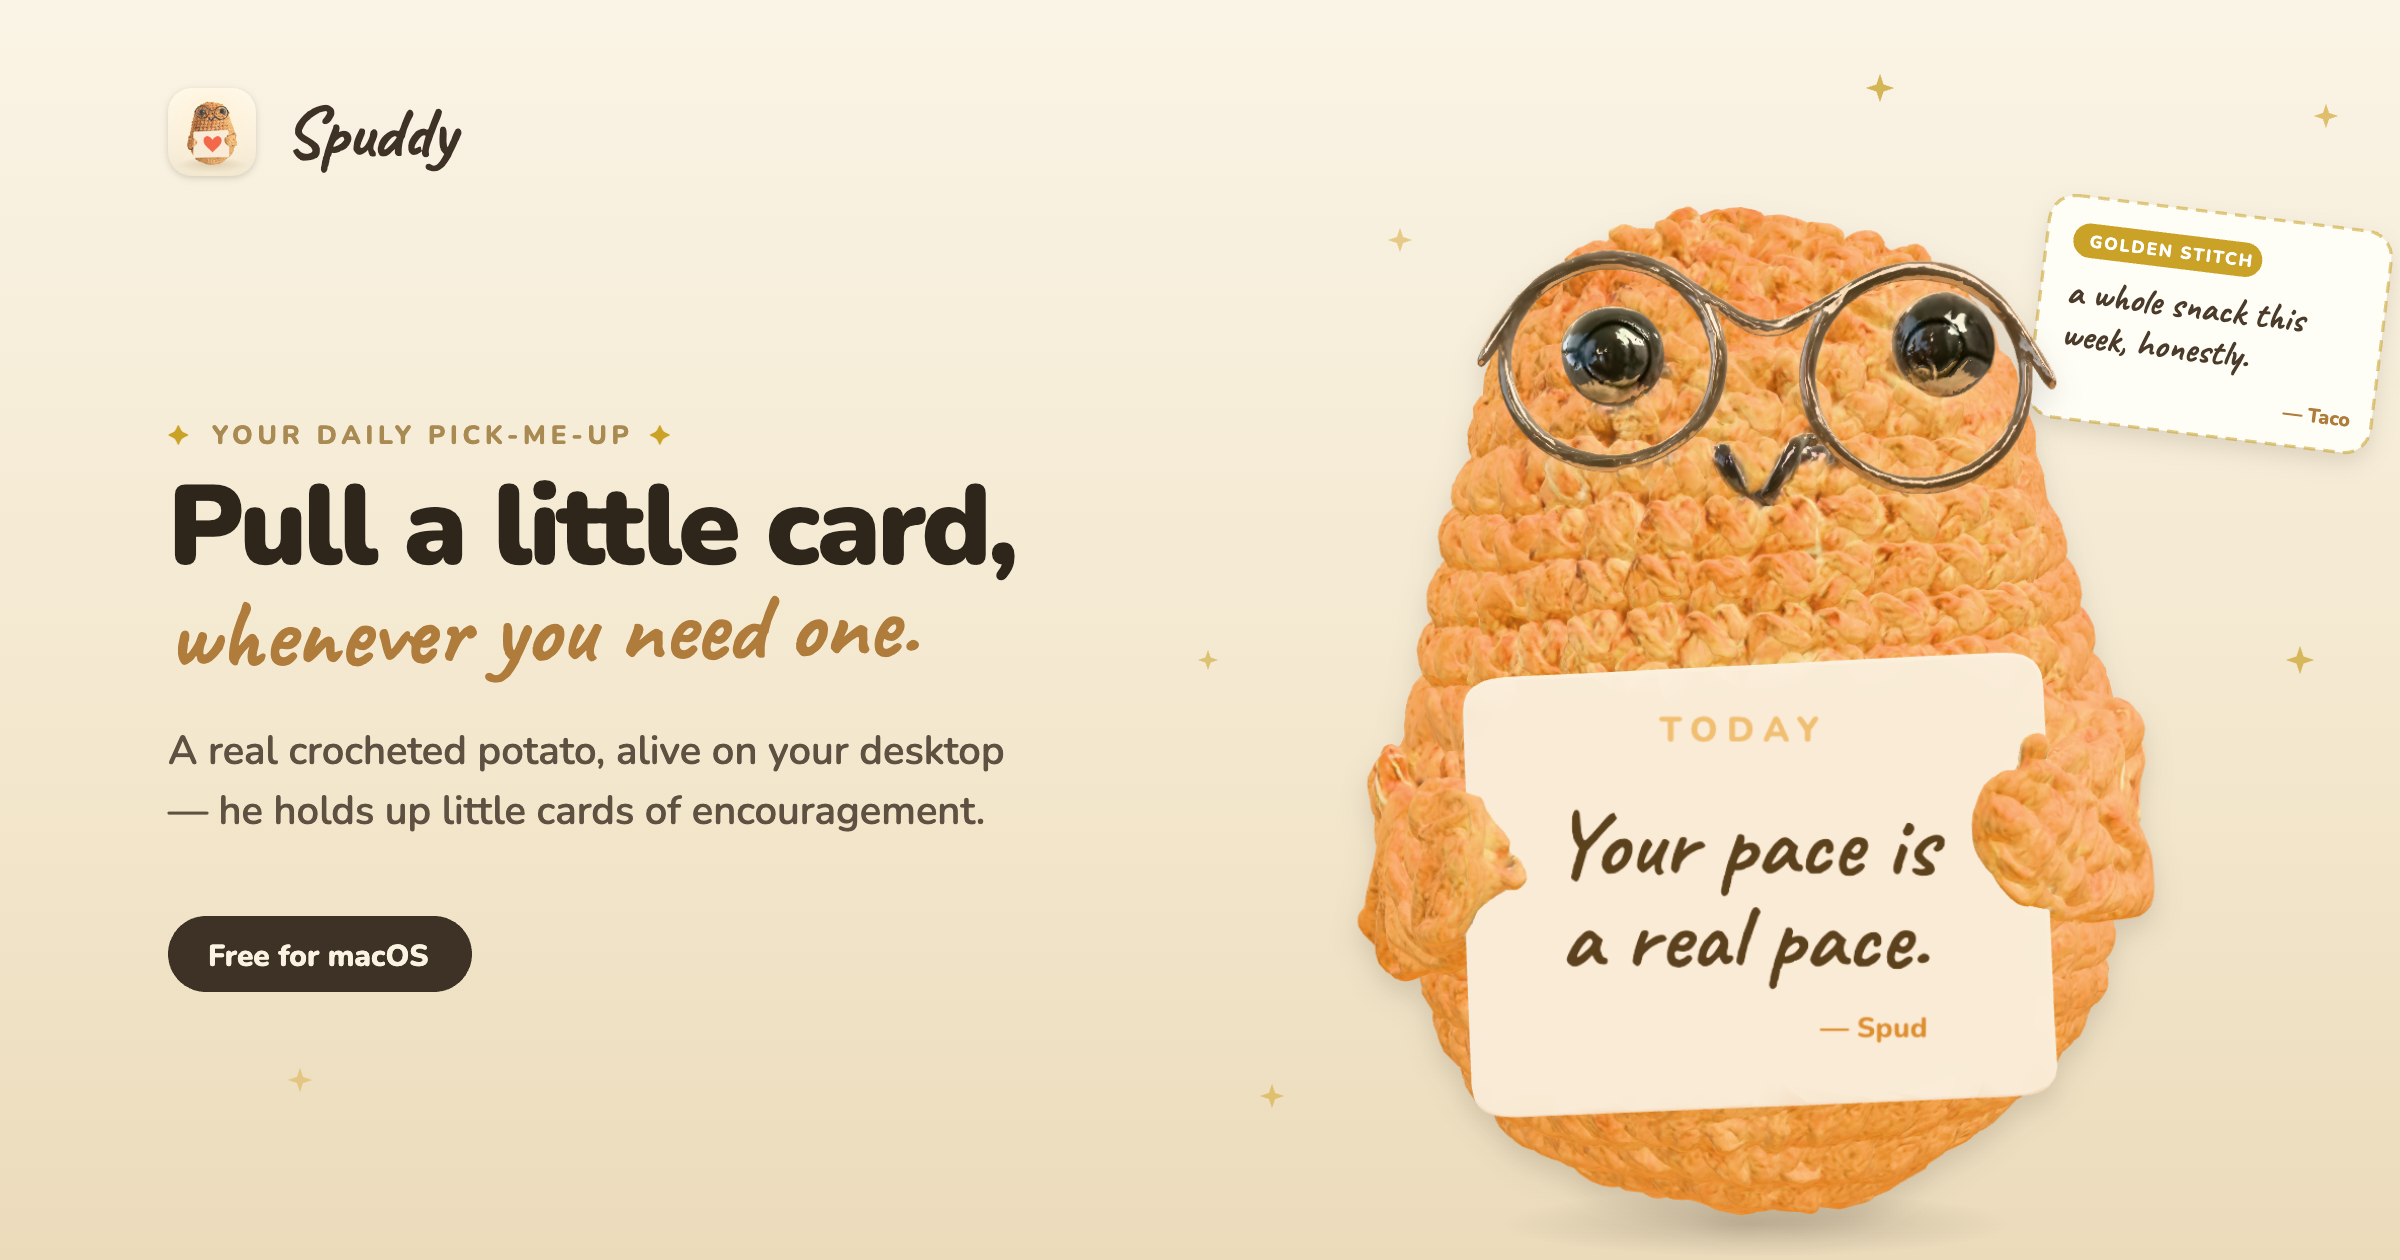
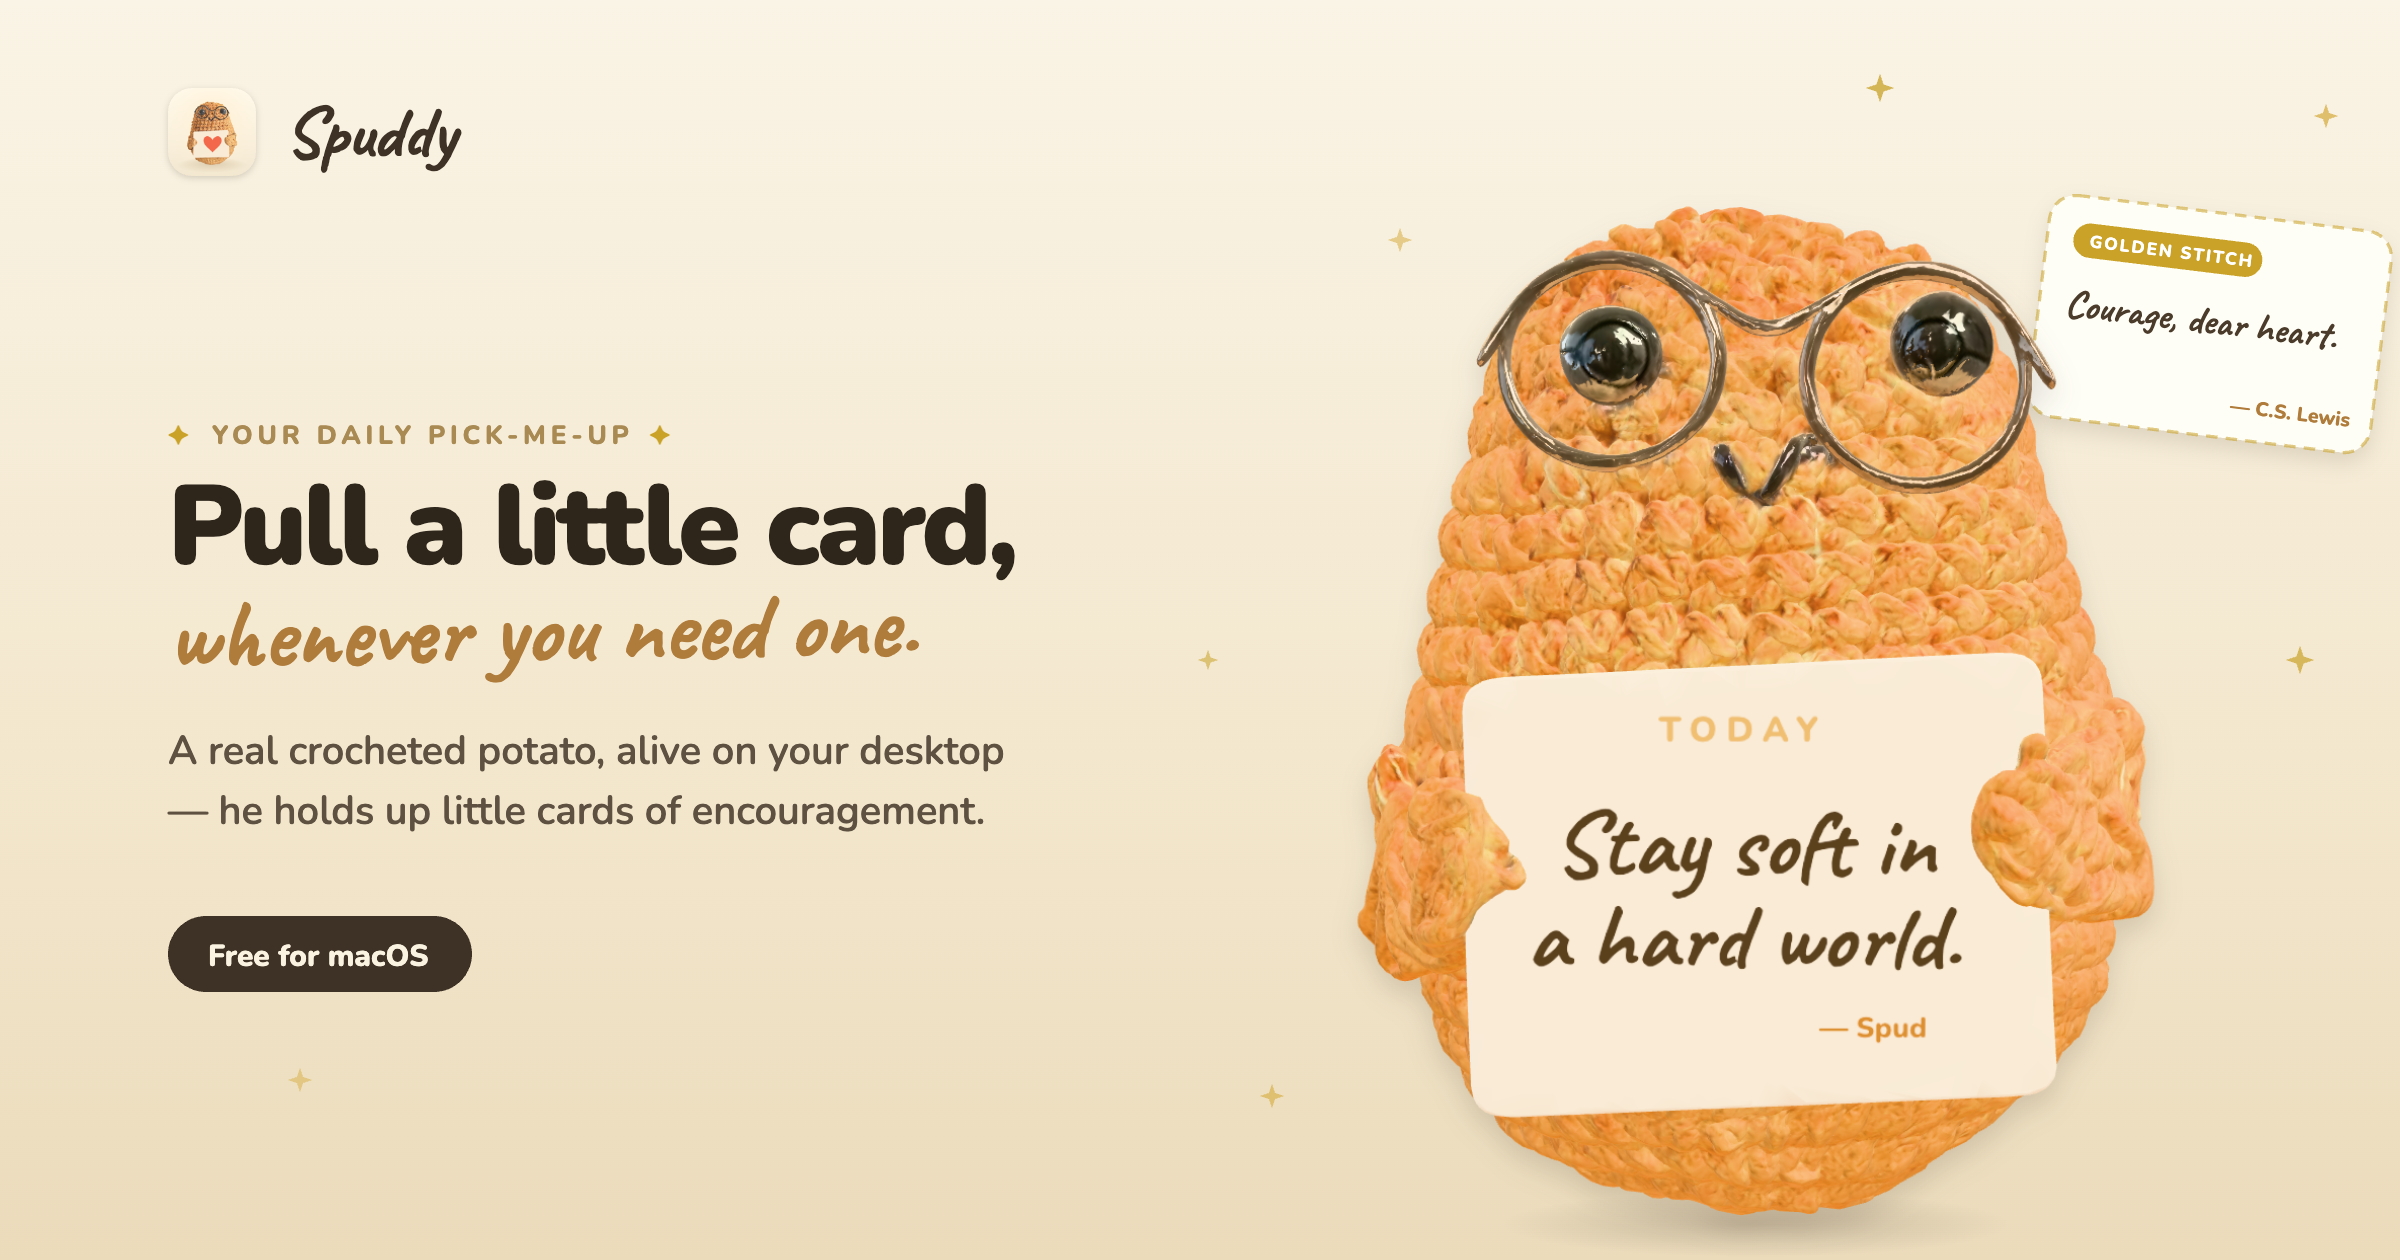
Upgrade marketing copy with lines from the live quote pools
Pull the good stuff from api.cherry.surf instead of hand-written
placeholders, split by provenance the same way the app is: normal cards
take internet-pool lines and stay signed by the buddy, golden cards
carry a real famous quote signed by its source (matching the site's own
Golden Stitch description).

- og card: main line is now 'Stay soft in a hard world.', the golden
  card reads 'Courage, dear heart. — C.S. Lewis'
- hero deck: 8 -> 10 cards, five house lines kept, four internet-pool
  lines added, gold slot becomes 'You have more courage than you
  think.' — Winnie the Pooh via a new optional s (source) field
- static gold side card and og:image:alt follow suit

diff --git a/web/index.html b/web/index.html
@@ -20,12 +20,12 @@
   <meta property="og:image" content="https://spud.cherry.surf/assets/og-card.png">
   <meta property="og:image:width" content="2400">
   <meta property="og:image:height" content="1260">
-  <meta property="og:image:alt" content="Spuddy, a crocheted potato with round glasses, holds up a little card that reads: TODAY — Your pace is a real pace.">
+  <meta property="og:image:alt" content="Spuddy, a crocheted potato with round glasses, holds up a little card that reads: TODAY — Stay soft in a hard world.">
   <meta name="twitter:card" content="summary_large_image">
   <meta name="twitter:title" content="Spuddy — your daily pick-me-up">
   <meta name="twitter:description" content="A real crocheted potato who hands you little cards of encouragement — pull one whenever you need it.">
   <meta name="twitter:image" content="https://spud.cherry.surf/assets/og-card.png">
-  <meta name="twitter:image:alt" content="Spuddy, a crocheted potato with round glasses, holds up a little card that reads: TODAY — Your pace is a real pace.">
+  <meta name="twitter:image:alt" content="Spuddy, a crocheted potato with round glasses, holds up a little card that reads: TODAY — Stay soft in a hard world.">
 
   <link rel="preconnect" href="https://fonts.googleapis.com">
   <link rel="preconnect" href="https://fonts.gstatic.com" crossorigin="anonymous">
@@ -141,8 +141,8 @@
       </div>
       <div class="hero-side" style="position:absolute;right:6px;top:30%;width:206px;background:#FFFEF6;border:2px dashed rgba(201,162,39,0.55);border-radius:16px;padding:18px 16px;box-shadow:0 16px 30px rgba(62,50,38,0.14);transform:rotate(7deg);pointer-events:none">
         <div style="display:inline-block;background:#C9A227;color:#fff;font-size:10px;font-weight:800;letter-spacing:0.12em;text-transform:uppercase;padding:4px 10px;border-radius:999px;margin-bottom:8px">Golden Stitch</div>
-        <div style="font-family:'Caveat',cursive;font-size:23px;line-height:1.15;color:#4A3B2A">a whole snack this week, honestly.</div>
-        <div style="font-size:12.5px;font-weight:800;color:#B07C3B;text-align:right;margin-top:8px">— Taco</div>
+        <div style="font-family:'Caveat',cursive;font-size:24px;line-height:1.15;color:#4A3B2A">Courage, dear heart.</div>
+        <div style="font-size:12.5px;font-weight:800;color:#B07C3B;text-align:right;margin-top:8px">— C.S. Lewis</div>
       </div>
       <span aria-hidden="true" class="hero-side" style="position:absolute;left:19%;top:5%;color:#C9A227;font-size:20px;animation:twinkle 2.6s ease-in-out infinite;pointer-events:none">✦</span>
       <span aria-hidden="true" class="hero-side" style="position:absolute;right:23%;top:1%;color:#D9B24D;font-size:14px;animation:twinkle 2.6s ease-in-out .6s infinite;pointer-events:none">✦</span>

diff --git a/web/main.js b/web/main.js
@@ -9,15 +9,21 @@
 const HERO_BUDDY = 'spud';
 
 // Lines painted onto the card he actually holds, cycled with a cross-fade.
+// A blend of house voice and the live pools at api.cherry.surf (quote library
+// + internet lines — see server/src/quotes-store.ts): normal cards stay
+// unattributed and signed by the buddy, the golden card carries a real famous
+// quote, signed with its source via `s`.
 const CARD_DECK = [
   { top: 'TODAY', main: 'Your pace is a real pace.' },
-  { top: 'A REMINDER', main: 'Rest counts as doing something.' },
-  { top: 'PSST', main: 'Small steps still count.' },
+  { top: 'PSST', main: 'Stay soft in a hard world.' },
   { top: 'HEY', main: 'You made it through every hard day so far.' },
+  { top: 'A REMINDER', main: 'You are not behind. You are on your own path.' },
   { top: 'FOR YOU', main: 'Done beats perfect.' },
   { top: '· ♥ ·', main: 'You don’t have to bloom today — just stay rooted.' },
   { top: 'GENTLE NUDGE', main: 'Go drink some water. I’ll watch your stuff.' },
-  { top: 'GOLDEN STITCH', main: 'You’re doing better than you think.', gold: true },
+  { top: 'PSST', main: 'Growth is quiet. Trust it.' },
+  { top: 'A REMINDER', main: 'Rest is not quitting.' },
+  { top: 'GOLDEN STITCH', main: 'You have more courage than you think.', s: 'Winnie the Pooh', gold: true },
 ];
 
 // On a poke he plays a random motion (no immediate repeats), weighted like the
@@ -53,7 +59,8 @@ function buddyName() { return BUDDY_NAMES[HERO_BUDDY] || 'Spud'; }
 function applyCard(i) {
   if (!scene || !scene.setCard) return;
   const c = CARD_DECK[((i % CARD_DECK.length) + CARD_DECK.length) % CARD_DECK.length];
-  scene.setCard({ top: c.top, main: c.main, footR: '— ' + buddyName(), gold: !!c.gold });
+  // quotes carry their real source; everything else is signed by the buddy
+  scene.setCard({ top: c.top, main: c.main, footR: '— ' + (c.s || buddyName()), gold: !!c.gold });
 }
 
 function advanceCard() {

diff --git a/tools/og-card.html b/tools/og-card.html
@@ -87,8 +87,8 @@ async function renderPotato() {
   cx2.letterSpacing = prevSpacing;
   cx2.fillStyle = '#4A3B2A';
   cx2.font = `700 ${Math.round(CH * 0.2)}px Caveat, cursive`;
-  cx2.fillText('Your pace is', CW * 0.47, CH * 0.42);
-  cx2.fillText('a real pace.', CW * 0.47, CH * 0.62);
+  cx2.fillText('Stay soft in', CW * 0.47, CH * 0.42);
+  cx2.fillText('a hard world.', CW * 0.47, CH * 0.62);
   cx2.fillStyle = '#B07C3B';
   cx2.textAlign = 'right';
   cx2.font = `800 ${Math.round(CH * 0.062)}px Nunito, sans-serif`;
@@ -206,13 +206,12 @@ async function main() {
   ctx.fillText('GOLDEN STITCH', -79, -37.5);
   ctx.letterSpacing = '0px';
   ctx.fillStyle = '#4A3B2A';
-  ctx.font = '600 23px Caveat';
-  ctx.fillText('a whole snack this', -89, -2);
-  ctx.fillText('week, honestly.', -89, 24);
+  ctx.font = '600 24px Caveat';
+  ctx.fillText('Courage, dear heart.', -89, 6);
   ctx.fillStyle = '#B07C3B';
   ctx.font = '800 12px Nunito';
   ctx.textAlign = 'right';
-  ctx.fillText('— Taco', 92, 52);
+  ctx.fillText('— C.S. Lewis', 92, 52);
   ctx.textAlign = 'left';
   ctx.restore();
 
